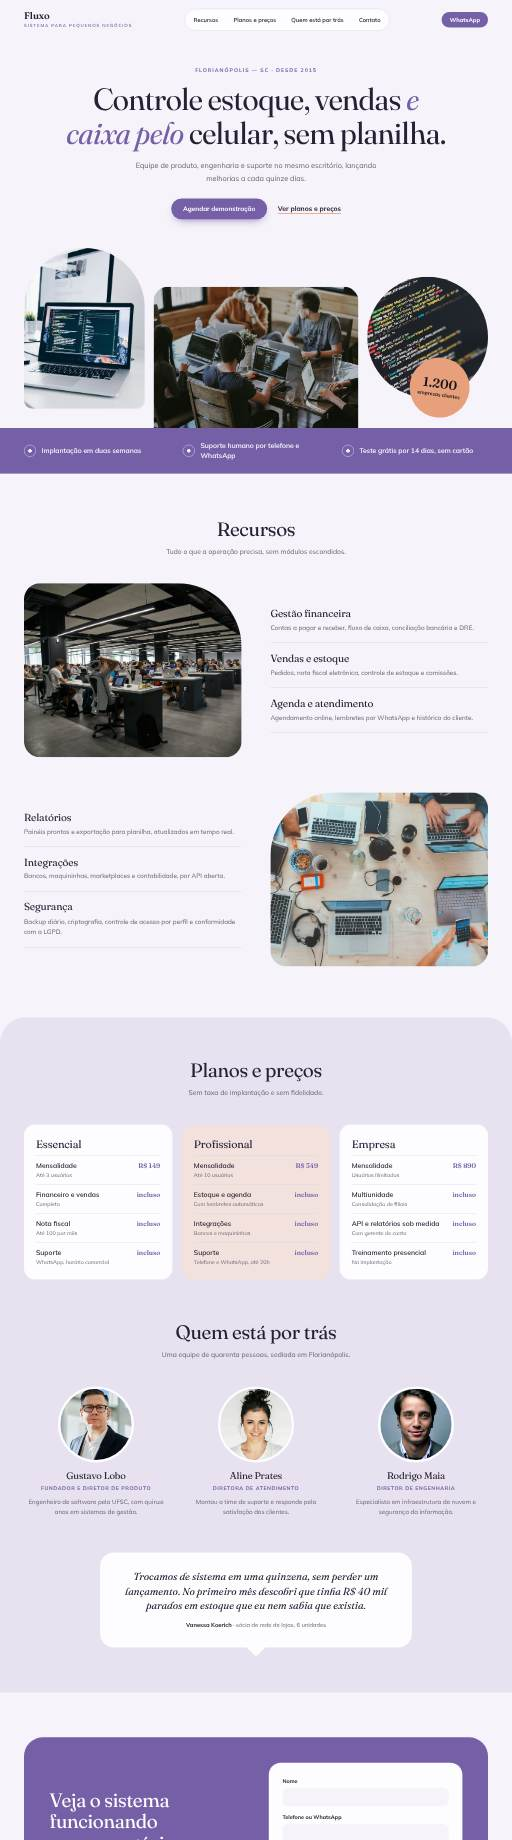
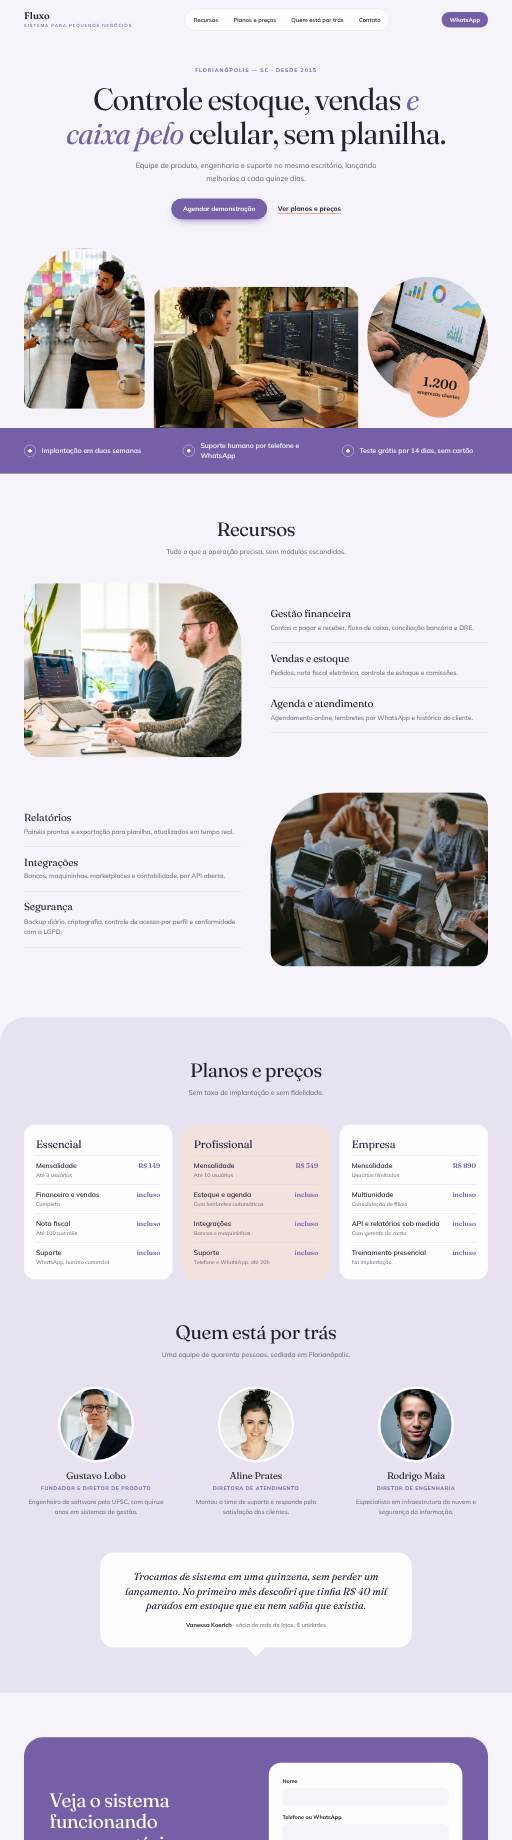
Bring tecnologia to 10 photos
Claude-Session: https://claude.ai/code/session_0151Yi9K8yWSyYvoKWm1KgPz

Changed region(s): [[0.0312, 0.1239, 0.9688, 0.2478], [0.0312, 0.3098, 0.4688, 0.4337], [0.5312, 0.4027, 0.9688, 0.5266]]

diff --git a/kolp-modelos/demo/tecnologia-07/index.html b/kolp-modelos/demo/tecnologia-07/index.html
@@ -35,7 +35,7 @@
       <p class="lide">Teste por quatorze dias sem cartão de crédito. Se não servir, exportamos todos os seus dados em planilha.</p>
       <div class="acoes"><a class="botao" href="#contato">Agendar demonstração</a><a class="elo" href="#servicos">Ver planos e preços</a></div>
     </div>
-    <figure class="arco"><img src="../../fotos/tecnologia/1.jpg" alt="" width="1400" height="930"><figcaption>Desde 2015</figcaption></figure>
+    <figure class="arco"><img src="../../fotos/tecnologia/7.jpg" alt="" width="1400" height="930"><figcaption>Desde 2015</figcaption></figure>
   </div>
   <div class="largura"><dl class="indices"><div><dd>1.200</dd><dt>empresas clientes</dt></div><div><dd>99,95%</dd><dt>de disponibilidade em 2025</dt></div><div><dd>4 min</dd><dt>tempo médio de resposta do suporte</dt></div><div><dd>14</dd><dt>dias de teste grátis</dt></div></dl></div>
   </section>
@@ -43,7 +43,7 @@
     <header class="topo rev"><h2>Recursos</h2><p>Tudo o que a operação precisa, sem módulos escondidos.</p></header>
     <ol class="cartoes"><li class="rev"><h3>Gestão financeira</h3><p>Contas a pagar e receber, fluxo de caixa, conciliação bancária e DRE.</p></li><li class="rev"><h3>Vendas e estoque</h3><p>Pedidos, nota fiscal eletrônica, controle de estoque e comissões.</p></li><li class="rev"><h3>Agenda e atendimento</h3><p>Agendamento online, lembretes por WhatsApp e histórico do cliente.</p></li><li class="rev"><h3>Relatórios</h3><p>Painéis prontos e exportação para planilha, atualizados em tempo real.</p></li><li class="rev"><h3>Integrações</h3><p>Bancos, maquininhas, marketplaces e contabilidade, por API aberta.</p></li><li class="rev"><h3>Segurança</h3><p>Backup diário, criptografia, controle de acesso por perfil e conformidade com a LGPD.</p></li></ol>
   </div></section>
-  <section class="faixa rev"><img src="../../fotos/tecnologia/2.jpg" alt="" width="1400" height="930" loading="lazy"><p>“Software bom é o que a sua equipe usa sem precisar de treinamento”</p></section>
+  <section class="faixa rev"><img src="../../fotos/tecnologia/8.jpg" alt="" width="1400" height="930" loading="lazy"><p>“Software bom é o que a sua equipe usa sem precisar de treinamento”</p></section>
   <section class="precos" id="precos"><div class="largura precos-grade">
     <div class="precos-lado rev"><h2>Planos e preços</h2><p>Sem taxa de implantação e sem fidelidade.</p><a class="botao" href="#contato">Agendar demonstração</a></div>
     <div class="rev"><details open><summary>Essencial</summary><ul><li><div><b>Mensalidade</b><span>Até 3 usuários</span></div><strong>R$ 149</strong></li><li><div><b>Financeiro e vendas</b><span>Completo</span></div><strong>incluso</strong></li><li><div><b>Nota fiscal</b><span>Até 100 por mês</span></div><strong>incluso</strong></li><li><div><b>Suporte</b><span>WhatsApp, horário comercial</span></div><strong>incluso</strong></li></ul></details><details><summary>Profissional</summary><ul><li><div><b>Mensalidade</b><span>Até 10 usuários</span></div><strong>R$ 349</strong></li><li><div><b>Estoque e agenda</b><span>Com lembretes automáticos</span></div><strong>incluso</strong></li><li><div><b>Integrações</b><span>Bancos e maquininhas</span></div><strong>incluso</strong></li><li><div><b>Suporte</b><span>Telefone e WhatsApp, até 20h</span></div><strong>incluso</strong></li></ul></details><details><summary>Empresa</summary><ul><li><div><b>Mensalidade</b><span>Usuários ilimitados</span></div><strong>R$ 890</strong></li><li><div><b>Multiunidade</b><span>Consolidação de filiais</span></div><strong>incluso</strong></li><li><div><b>API e relatórios sob medida</b><span>Com gerente de conta</span></div><strong>incluso</strong></li><li><div><b>Treinamento presencial</b><span>Na implantação</span></div><strong>incluso</strong></li></ul></details></div>

diff --git a/kolp-modelos/demo/tecnologia-08/index.html b/kolp-modelos/demo/tecnologia-08/index.html
@@ -34,17 +34,17 @@
     <p class="lide">Equipe de produto, engenharia e suporte no mesmo escritório, lançando melhorias a cada quinze dias.</p>
     <div class="acoes"><a class="botao" href="#contato">Agendar demonstração</a><a class="elo" href="#servicos">Ver planos e preços</a></div>
     <div class="mosaico">
-      <img class="m1" src="../../fotos/tecnologia/3.jpg" alt="" width="1400" height="930">
-      <img class="m2" src="../../fotos/tecnologia/2.jpg" alt="" width="1400" height="930">
-      <img class="m3" src="../../fotos/tecnologia/4.jpg" alt="" width="1400" height="930">
+      <img class="m1" src="../../fotos/tecnologia/9.jpg" alt="" width="1400" height="930">
+      <img class="m2" src="../../fotos/tecnologia/8.jpg" alt="" width="1400" height="930">
+      <img class="m3" src="../../fotos/tecnologia/10.jpg" alt="" width="1400" height="930">
       <p class="selo"><b>1.200</b>empresas clientes</p>
     </div>
   </div></section>
   <section class="pontos"><ul class="largura"><li class="rev">Implantação em duas semanas</li><li class="rev">Suporte humano por telefone e WhatsApp</li><li class="rev">Teste grátis por 14 dias, sem cartão</li></ul></section>
   <section class="servicos" id="servicos"><div class="largura">
     <header class="topo rev"><h2>Recursos</h2><p>Tudo o que a operação precisa, sem módulos escondidos.</p></header>
-    <div class="par rev"><img src="../../fotos/tecnologia/5.jpg" alt="" width="1400" height="930" loading="lazy"><ul><li><h3>Gestão financeira</h3><p>Contas a pagar e receber, fluxo de caixa, conciliação bancária e DRE.</p></li><li><h3>Vendas e estoque</h3><p>Pedidos, nota fiscal eletrônica, controle de estoque e comissões.</p></li><li><h3>Agenda e atendimento</h3><p>Agendamento online, lembretes por WhatsApp e histórico do cliente.</p></li></ul></div>
-    <div class="par par-inv rev"><img src="../../fotos/tecnologia/6.jpg" alt="" width="1400" height="930" loading="lazy"><ul><li><h3>Relatórios</h3><p>Painéis prontos e exportação para planilha, atualizados em tempo real.</p></li><li><h3>Integrações</h3><p>Bancos, maquininhas, marketplaces e contabilidade, por API aberta.</p></li><li><h3>Segurança</h3><p>Backup diário, criptografia, controle de acesso por perfil e conformidade com a LGPD.</p></li></ul></div>
+    <div class="par rev"><img src="../../fotos/tecnologia/1.jpg" alt="" width="1400" height="930" loading="lazy"><ul><li><h3>Gestão financeira</h3><p>Contas a pagar e receber, fluxo de caixa, conciliação bancária e DRE.</p></li><li><h3>Vendas e estoque</h3><p>Pedidos, nota fiscal eletrônica, controle de estoque e comissões.</p></li><li><h3>Agenda e atendimento</h3><p>Agendamento online, lembretes por WhatsApp e histórico do cliente.</p></li></ul></div>
+    <div class="par par-inv rev"><img src="../../fotos/tecnologia/2.jpg" alt="" width="1400" height="930" loading="lazy"><ul><li><h3>Relatórios</h3><p>Painéis prontos e exportação para planilha, atualizados em tempo real.</p></li><li><h3>Integrações</h3><p>Bancos, maquininhas, marketplaces e contabilidade, por API aberta.</p></li><li><h3>Segurança</h3><p>Backup diário, criptografia, controle de acesso por perfil e conformidade com a LGPD.</p></li></ul></div>
   </div></section>
   <section class="precos" id="precos"><div class="largura">
     <header class="topo rev"><h2>Planos e preços</h2><p>Sem taxa de implantação e sem fidelidade.</p></header>

diff --git a/kolp-modelos/demo/tecnologia-10/index.html b/kolp-modelos/demo/tecnologia-10/index.html
@@ -30,7 +30,7 @@
 <div class="conteudo">
 <main>
   <section class="abertura">
-    <img src="../../fotos/tecnologia/4.jpg" alt="" width="1400" height="930">
+    <img src="../../fotos/tecnologia/10.jpg" alt="" width="1400" height="930">
     <div class="legenda"><p class="rotulo">Desde 2015 · Florianópolis — SC</p><h1>Dez anos de ERP rodando em fábricas e distribuidoras do Sul.</h1></div>
   </section>
   <section class="sobre" id="sobre">
@@ -41,7 +41,7 @@
     <header class="topo"><h2>Recursos</h2><p>Tudo o que a operação precisa, sem módulos escondidos.</p></header>
     <ul class="servicos"><li><h3>Gestão financeira</h3><p>Contas a pagar e receber, fluxo de caixa, conciliação bancária e DRE.</p></li><li><h3>Vendas e estoque</h3><p>Pedidos, nota fiscal eletrônica, controle de estoque e comissões.</p></li><li><h3>Agenda e atendimento</h3><p>Agendamento online, lembretes por WhatsApp e histórico do cliente.</p></li><li><h3>Relatórios</h3><p>Painéis prontos e exportação para planilha, atualizados em tempo real.</p></li><li><h3>Integrações</h3><p>Bancos, maquininhas, marketplaces e contabilidade, por API aberta.</p></li><li><h3>Segurança</h3><p>Backup diário, criptografia, controle de acesso por perfil e conformidade com a LGPD.</p></li></ul>
   </section>
-  <figure class="citacao"><img src="../../fotos/tecnologia/5.jpg" alt="" width="1400" height="930" loading="lazy"><blockquote>“Software bom é o que a sua equipe usa sem precisar de treinamento”</blockquote></figure>
+  <figure class="citacao"><img src="../../fotos/tecnologia/1.jpg" alt="" width="1400" height="930" loading="lazy"><blockquote>“Software bom é o que a sua equipe usa sem precisar de treinamento”</blockquote></figure>
   <section id="equipe">
     <header class="topo"><h2>Quem está por trás</h2><p>Uma equipe de quarenta pessoas, sediada em Florianópolis.</p></header>
     <div class="equipe"><article><img src="../../fotos/retratos/m6.jpg" alt="Retrato de Gustavo Lobo" width="560" height="680" loading="lazy"><div><h3>Gustavo Lobo</h3><p class="cargo">Fundador e diretor de produto</p><p>Engenheiro de software pela UFSC, com quinze anos em sistemas de gestão.</p></div></article><article><img src="../../fotos/retratos/f6.jpg" alt="Retrato de Aline Prates" width="560" height="680" loading="lazy"><div><h3>Aline Prates</h3><p class="cargo">Diretora de atendimento</p><p>Montou o time de suporte e responde pela satisfação dos clientes.</p></div></article><article><img src="../../fotos/retratos/m1.jpg" alt="Retrato de Rodrigo Maia" width="560" height="680" loading="lazy"><div><h3>Rodrigo Maia</h3><p class="cargo">Diretor de engenharia</p><p>Especialista em infraestrutura de nuvem e segurança da informação.</p></div></article></div>

diff --git a/kolp-modelos/demo/tecnologia-09/index.html b/kolp-modelos/demo/tecnologia-09/index.html
@@ -30,7 +30,7 @@
 </div></header>
 <main>
   <section class="abertura">
-    <img src="../../fotos/tecnologia/3.jpg" alt="" width="1400" height="930">
+    <img src="../../fotos/tecnologia/9.jpg" alt="" width="1400" height="930">
     <div class="abertura-bloco"><div>
       <p class="rotulo">Florianópolis — SC</p>
       <h1>Sua rede no ar e um técnico que atende no primeiro toque.</h1>
@@ -51,7 +51,7 @@
     <header class="topo"><h2>Planos e preços</h2><p>Sem taxa de implantação e sem fidelidade.</p></header>
     <div class="tabela-rolagem"><table><tbody><tr class="grupo"><th colspan="3">Essencial</th></tr><tr><th>Mensalidade</th><td>Até 3 usuários</td><td>R$ 149</td></tr><tr><th>Financeiro e vendas</th><td>Completo</td><td>incluso</td></tr><tr><th>Nota fiscal</th><td>Até 100 por mês</td><td>incluso</td></tr><tr><th>Suporte</th><td>WhatsApp, horário comercial</td><td>incluso</td></tr></tbody><tbody><tr class="grupo"><th colspan="3">Profissional</th></tr><tr><th>Mensalidade</th><td>Até 10 usuários</td><td>R$ 349</td></tr><tr><th>Estoque e agenda</th><td>Com lembretes automáticos</td><td>incluso</td></tr><tr><th>Integrações</th><td>Bancos e maquininhas</td><td>incluso</td></tr><tr><th>Suporte</th><td>Telefone e WhatsApp, até 20h</td><td>incluso</td></tr></tbody><tbody><tr class="grupo"><th colspan="3">Empresa</th></tr><tr><th>Mensalidade</th><td>Usuários ilimitados</td><td>R$ 890</td></tr><tr><th>Multiunidade</th><td>Consolidação de filiais</td><td>incluso</td></tr><tr><th>API e relatórios sob medida</th><td>Com gerente de conta</td><td>incluso</td></tr><tr><th>Treinamento presencial</th><td>Na implantação</td><td>incluso</td></tr></tbody></table></div>
   </div></section>
-  <section class="prova"><img src="../../fotos/tecnologia/4.jpg" alt="" width="1400" height="930" loading="lazy">
+  <section class="prova"><img src="../../fotos/tecnologia/10.jpg" alt="" width="1400" height="930" loading="lazy">
     <blockquote><p>“Trocamos de sistema em uma quinzena, sem perder um lançamento. No primeiro mês descobri que tinha R$ 40 mil parados em estoque que eu nem sabia que existia.”</p><footer><b>Vanessa Koerich</b> sócia de rede de lojas, 6 unidades</footer></blockquote>
   </section>
   <section class="contato" id="contato"><div class="largura contato-grade">

diff --git a/kolp-modelos/demo/tecnologia-06/index.html b/kolp-modelos/demo/tecnologia-06/index.html
@@ -44,7 +44,7 @@
     <div><p class="frase rev">Software bom é o que a sua equipe usa sem precisar de treinamento</p>
       <ol class="etapas"><li class="rev"><span>Etapa 1</span><h3>Demonstração</h3><p>Trinta minutos por vídeo, usando exemplos do seu negócio.</p></li><li class="rev"><span>Etapa 2</span><h3>Migração</h3><p>Importamos clientes, produtos e histórico do sistema antigo.</p></li><li class="rev"><span>Etapa 3</span><h3>Treinamento</h3><p>Duas sessões com a sua equipe, gravadas para consulta.</p></li><li class="rev"><span>Etapa 4</span><h3>Acompanhamento</h3><p>Um especialista dedicado nos primeiros sessenta dias.</p></li></ol></div>
   </div></section>
-  <figure class="faixa-foto rev"><img src="../../fotos/tecnologia/1.jpg" alt="" width="1400" height="930" loading="lazy"></figure>
+  <figure class="faixa-foto rev"><img src="../../fotos/tecnologia/7.jpg" alt="" width="1400" height="930" loading="lazy"></figure>
   <section class="casos" id="resultados"><div class="largura bloco">
     <h2 class="rotulo">03 — Resultados</h2>
     <div><article class="rev"><p class="resultado">1.200<small>empresas clientes</small></p><div><h3>Base ativa</h3><p>Clientes em vinte estados, de clínicas de bairro a redes com quarenta unidades.</p></div></article><article class="rev"><p class="resultado">99,95%<small>de disponibilidade em 2025</small></p><div><h3>Estabilidade</h3><p>Infraestrutura redundante em dois data centers no Brasil.</p></div></article><article class="rev"><p class="resultado">4 min<small>tempo médio de resposta do suporte</small></p><div><h3>Atendimento</h3><p>Suporte próprio, sem robô, das 8h às 20h.</p></div></article></div>

diff --git a/kolp-modelos/demo/tecnologia-05/index.html b/kolp-modelos/demo/tecnologia-05/index.html
@@ -52,7 +52,7 @@
       <a class="botao botao-grande" href="https://wa.me/5511999999999?text=Ol%C3%A1!%20Vim%20pelo%20site.">Agendar demonstração</a></div>
   </div></section>
   <section class="loja" id="local">
-    <img class="loja-fundo" src="../../fotos/tecnologia/1.jpg" alt="" width="1400" height="930" loading="lazy">
+    <img class="loja-fundo" src="../../fotos/tecnologia/7.jpg" alt="" width="1400" height="930" loading="lazy">
     <div class="largura loja-grade"><div class="cartao">
       <h2>Veja o sistema funcionando no seu negócio</h2>
       <p class="endereco">Rod. SC-401, 4.150 — Saco Grande, Florianópolis</p>
